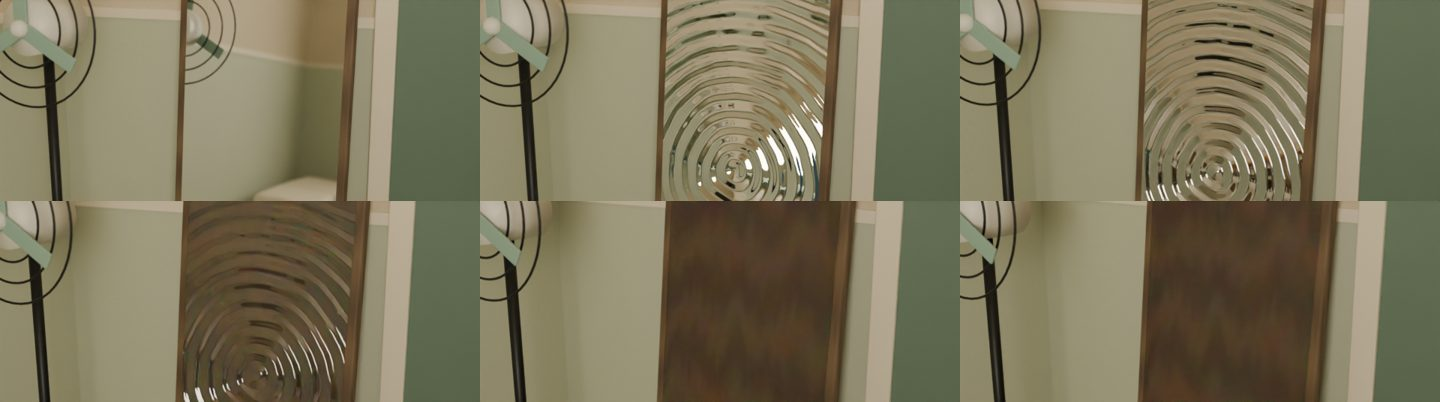
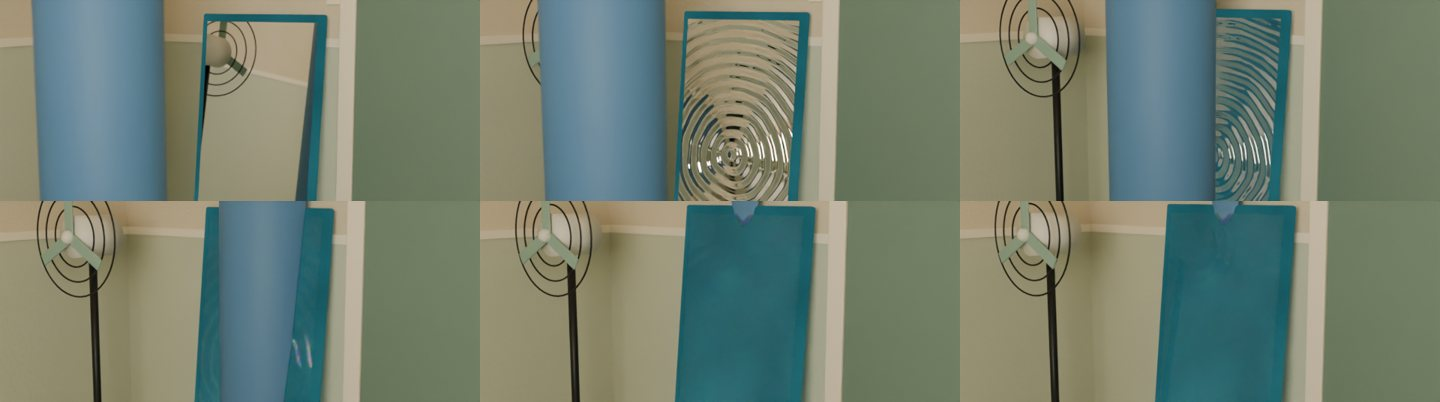
Ho so 02: tang toc dung canh 40x (bmesh), khe thong gio cua, kinh hoa nuoc + Nam chim xuyen kinh + Submersion POV, chay ra soat camera
Claude-Session: https://claude.ai/code/session_015xtvRhLRyfqVC2mbHabEYR

diff --git a/episodes/hem-co-chuyen/ho-so-02-nguoi-lam-thay/assets/boi-canh-3d/xay_phong_tro.py b/episodes/hem-co-chuyen/ho-so-02-nguoi-lam-thay/assets/boi-canh-3d/xay_phong_tro.py
@@ -60,32 +60,50 @@ def box(name, x0, x1, y0, y1, z0, z1, mat, bevel=0.0, coll=None, rot=None, pivot
     return ob
 
 
+def _mesh_obj(name, bm, loc, mat, smooth, coll, rot=None, scale=None, quat=None):
+    """Tạo đối tượng từ bmesh KHÔNG dùng bpy.ops (mỗi bpy.ops cập nhật depsgraph toàn cảnh → rất chậm khi có hàng nghìn vật)."""
+    me = bpy.data.meshes.new(name); bm.to_mesh(me); bm.free()
+    if smooth:
+        for p in me.polygons: p.use_smooth = True
+    ob = bpy.data.objects.new(name, me); ob.location = loc
+    if quat is not None: ob.rotation_mode = 'QUATERNION'; ob.rotation_quaternion = quat
+    elif rot is not None: ob.rotation_euler = rot
+    if scale is not None: ob.scale = scale
+    me.materials.append(mat)
+    (coll or bpy.context.scene.collection).objects.link(ob)
+    return ob
+
+
 def cyl(name, x, y, z, r, h, mat, axis='Z', verts=28, coll=None, rot=None, bevel=0.0, smooth=True):
-    bpy.ops.mesh.primitive_cylinder_add(vertices=verts, radius=r, depth=h, location=(mx(x), y, z))
-    ob = bpy.context.object; ob.name = name
-    if axis == 'X': ob.rotation_euler = (0, math.pi / 2, 0)
-    elif axis == 'Y': ob.rotation_euler = (math.pi / 2, 0, 0)
-    if rot: ob.rotation_euler = mrot(rot)
-    ob.data.materials.append(mat)
-    if smooth: bpy.ops.object.shade_smooth()
+    bm = bmesh.new(); bmesh.ops.create_cone(bm, cap_ends=True, cap_tris=False, segments=verts, radius1=r, radius2=r, depth=h)
+    e = None
+    if axis == 'X': e = (0, math.pi / 2, 0)
+    elif axis == 'Y': e = (math.pi / 2, 0, 0)
+    if rot: e = mrot(rot)
+    ob = _mesh_obj(name, bm, (mx(x), y, z), mat, smooth, coll, rot=e)
     if bevel > 0:
         md = ob.modifiers.new('bevel', 'BEVEL'); md.width = bevel; md.segments = 2
-    _link(ob, coll or bpy.context.scene.collection)
     return ob
 
 
 def sphere(name, x, y, z, r, mat, scale=(1, 1, 1), coll=None):
-    bpy.ops.mesh.primitive_uv_sphere_add(segments=32, ring_count=16, radius=r, location=(mx(x), y, z))
-    ob = bpy.context.object; ob.name = name; ob.scale = scale; ob.data.materials.append(mat); bpy.ops.object.shade_smooth()
-    _link(ob, coll or bpy.context.scene.collection)
-    return ob
+    bm = bmesh.new(); bmesh.ops.create_uvsphere(bm, u_segments=32, v_segments=16, radius=r)
+    return _mesh_obj(name, bm, (mx(x), y, z), mat, True, coll, scale=scale)
 
 
-def torus(name, x, y, z, R, r, mat, rot=(0, 0, 0), coll=None):
-    bpy.ops.mesh.primitive_torus_add(major_segments=48, minor_segments=10, major_radius=R, minor_radius=r, location=(mx(x), y, z), rotation=mrot(rot))
-    ob = bpy.context.object; ob.name = name; ob.data.materials.append(mat); bpy.ops.object.shade_smooth()
-    _link(ob, coll or bpy.context.scene.collection)
-    return ob
+def torus(name, x, y, z, R, r, mat, rot=(0, 0, 0), coll=None, major=48, minor=10):
+    bm = bmesh.new(); verts = []
+    for i in range(major):
+        a = 2 * math.pi * i / major; ca, sa = math.cos(a), math.sin(a); ring = []
+        for j in range(minor):
+            b = 2 * math.pi * j / minor; rr = R + r * math.cos(b)
+            ring.append(bm.verts.new((rr * ca, rr * sa, r * math.sin(b))))
+        verts.append(ring)
+    for i in range(major):
+        for j in range(minor):
+            bm.faces.new((verts[i][j], verts[(i + 1) % major][j], verts[(i + 1) % major][(j + 1) % minor], verts[i][(j + 1) % minor]))
+    bmesh.ops.recalc_face_normals(bm, faces=bm.faces)
+    return _mesh_obj(name, bm, (mx(x), y, z), mat, True, coll, rot=mrot(rot))
 
 
 def rounded(ob, level=2, width=0.03):
@@ -180,7 +198,16 @@ def shell(m, coll, door_open, cutaway=False, hide_front=False):
     for nm, a, b2, z0, z1 in [('khuon_a', DOOR['y0'] - 0.06, DOOR['y0'], 0, DOOR['top'] + 0.06), ('khuon_b', DOOR['y1'], DOOR['y1'] + 0.06, 0, DOOR['top'] + 0.06), ('khuon_tren', DOOR['y0'] - 0.06, DOOR['y1'] + 0.06, DOOR['top'], DOOR['top'] + 0.06)]:
         box(nm, -0.04, 0.03, a, b2, z0, z1, m['viền'], bevel=0.004, coll=coll)
     ang = math.radians(door_open)
-    leaf = box('canh_cua', -0.02, 0.02, DOOR['y0'], DOOR['y1'], 0.0, DOOR['top'], m['cua'], bevel=0.006, coll=coll, rot=(0, 0, ang), pivot=(0, DOOR['y1'], 0))
+    # cánh cửa chia 3 phần: thân dưới, KHE THÔNG GIÓ bằng nan ngang (z 1,66–1,96, có khe hở nhìn xuyên), thân trên
+    VZ0, VZ1 = 1.66, 1.96
+    pv = (0, DOOR['y1'], 0)
+    leaf = box('canh_cua', -0.02, 0.02, DOOR['y0'], DOOR['y1'], 0.0, VZ0, m['cua'], bevel=0.006, coll=coll, rot=(0, 0, ang), pivot=pv)
+    box('canh_cua_tren', -0.02, 0.02, DOOR['y0'], DOOR['y1'], VZ1, DOOR['top'], m['cua'], bevel=0.006, coll=coll, rot=(0, 0, ang), pivot=pv)
+    box('canh_cua_khung_trai', -0.02, 0.02, DOOR['y0'], DOOR['y0'] + 0.05, VZ0, VZ1, m['cua'], coll=coll, rot=(0, 0, ang), pivot=pv)
+    box('canh_cua_khung_phai', -0.02, 0.02, DOOR['y1'] - 0.05, DOOR['y1'], VZ0, VZ1, m['cua'], coll=coll, rot=(0, 0, ang), pivot=pv)
+    for k in range(8):  # nan: dày 1,6 cm, cách 3,75 cm → khe hở 2,1 cm
+        zz = VZ0 + 0.01 + k * 0.0375
+        box(f'nan_thong_gio{k}', -0.015, 0.015, DOOR['y0'] + 0.05, DOOR['y1'] - 0.05, zz, zz + 0.016, m['cua'], coll=coll, rot=(0, 0, ang), pivot=pv)
     # tay nắm, then sắt gỉ, mắt thần — gắn theo cánh (xoay cùng pivot)
     piv = (0, DOOR['y1'], 0)
     # Khóa cửa: thân khóa dán trên mặt trong cánh gần mép tự do, núm xoay, chốt đẩy vào ổ chốt trên khung.
@@ -339,11 +366,8 @@ def wire(name, p1, p2, r, mat, coll=None):
     """Dây điện mảnh giữa hai điểm (toạ độ thiết kế, hàm tự phản chiếu)."""
     a = Vector((mx(p1[0]), p1[1], p1[2])); b = Vector((mx(p2[0]), p2[1], p2[2]))
     d = b - a; ln = d.length
-    bpy.ops.mesh.primitive_cylinder_add(vertices=8, radius=r, depth=ln, location=(a + b) / 2)
-    ob = bpy.context.object; ob.name = name; ob.rotation_mode = 'QUATERNION'
-    ob.rotation_quaternion = Vector((0, 0, 1)).rotation_difference(d.normalized())
-    ob.data.materials.append(mat); _link(ob, coll or bpy.context.scene.collection)
-    return ob
+    bm = bmesh.new(); bmesh.ops.create_cone(bm, cap_ends=True, cap_tris=False, segments=8, radius1=r, radius2=r, depth=ln)
+    return _mesh_obj(name, bm, (a + b) / 2, mat, False, coll, quat=Vector((0, 0, 1)).rotation_difference(d.normalized()))
 
 
 def wall_details(m, coll):

diff --git a/episodes/hem-co-chuyen/ho-so-02-nguoi-lam-thay/assets/boi-canh-3d/kinh_nuoc.py b/episodes/hem-co-chuyen/ho-so-02-nguoi-lam-thay/assets/boi-canh-3d/kinh_nuoc.py
@@ -9,7 +9,7 @@ import bpy
 from mathutils import Vector
 
 
-def build_material(center_world, name='guong_nuoc', ior=(1.31, 1.33, 1.36), ring_scale=7.0):
+def build_material(center_world, name='guong_nuoc', ior=(1.31, 1.33, 1.36), ring_scale=7.0, pov=False):
     m = bpy.data.materials.new(name); m.use_nodes = True
     nt = m.node_tree; nt.nodes.clear(); N = nt.nodes; L = nt.links
     tc = N.new('ShaderNodeTexCoord')
@@ -38,7 +38,24 @@ def build_material(center_world, name='guong_nuoc', ior=(1.31, 1.33, 1.36), ring
     L.new(gl[0].outputs[0], a1.inputs[0]); L.new(gl[1].outputs[0], a1.inputs[1]); L.new(a1.outputs[0], a2.inputs[0]); L.new(gl[2].outputs[0], a2.inputs[1])
     mix = N.new('ShaderNodeMixShader'); mix.inputs[0].default_value = 0.0
     L.new(mirror.outputs[0], mix.inputs[1]); L.new(a2.outputs[0], mix.inputs[2])
-    out = N.new('ShaderNodeOutputMaterial'); L.new(mix.outputs[0], out.inputs['Surface'])
+    out = N.new('ShaderNodeOutputMaterial')
+    if pov:
+        # Nhìn từ phía sau kính (Submersion): khối kính mỏng gây phản xạ toàn phần ở mặt sau → đen. Thay bằng màng nước nửa trong:
+        # trong suốt + phản xạ glossy theo sóng + một chút khối xanh lục lam. `Backfacing` chọn đúng mặt.
+        geo2 = N.new('ShaderNodeNewGeometry')
+        tr = N.new('ShaderNodeBsdfTransparent'); gl2 = N.new('ShaderNodeBsdfGlossy'); gl2.inputs['Roughness'].default_value = 0.03; gl2.inputs['Color'].default_value = (0.7, 0.9, 0.95, 1)
+        L.new(bump.outputs['Normal'], gl2.inputs['Normal'])
+        tint = N.new('ShaderNodeBsdfTranslucent'); tint.inputs['Color'].default_value = (0.05, 0.35, 0.45, 1); L.new(bump.outputs['Normal'], tint.inputs['Normal'])
+        mb = N.new('ShaderNodeMixShader'); mb.inputs[0].default_value = 0.12; L.new(tr.outputs[0], mb.inputs[1]); L.new(gl2.outputs[0], mb.inputs[2])
+        mt = N.new('ShaderNodeMixShader'); L.new(mb.outputs[0], mt.inputs[1]); L.new(tint.outputs[0], mt.inputs[2])
+        mt.inputs[0].default_value = 0.0
+        bf = N.new('ShaderNodeMixShader'); L.new(geo2.outputs['Backfacing'], bf.inputs[0]); L.new(mt.outputs[0], bf.inputs[1]); L.new(mix.outputs[0], bf.inputs[2])
+        # độ trong theo `tran`: tran=0 → vẫn là gương; ở POV cho 'tran' điều khiển độ tint
+        ctl_tint = mt.inputs[0]
+        L.new(bf.outputs[0], out.inputs['Surface'])
+        m['ctl'] = 1
+        return m, dict(tran=mix.inputs[0], bien=bump.inputs['Strength'], pha=wave.inputs['Phase Offset'], tint=ctl_tint)
+    L.new(mix.outputs[0], out.inputs['Surface'])
     m['ctl'] = 1
     return m, dict(tran=mix.inputs[0], bien=bump.inputs['Strength'], pha=wave.inputs['Phase Offset'])
 
@@ -48,15 +65,49 @@ def key(sock, frame_vals):
         sock.default_value = v; sock.keyframe_insert('default_value', frame=f)
 
 
-def animate(ctl, N=72):
+def animate(ctl, N=72, tran0=0.0):
     """Mặc định: gương thường → gợn sóng từ tâm → hóa nước hoàn toàn → mặt nước phẳng lặng đóng băng."""
-    key(ctl['tran'], [(1, 0.0), (22, 0.0), (46, 1.0), (N, 1.0)])
+    key(ctl['tran'], [(1, tran0), (22, tran0), (46, 1.0), (N, 1.0)])
     key(ctl['bien'], [(1, 0.0), (14, 0.15), (30, 0.7), (56, 0.25), (N, 0.0)])
     key(ctl['pha'], [(1, 0.0), (N, 22.0)])
 
 
-def apply(glass_obj, center_world, N=72):
-    mat, ctl = build_material(center_world)
+def apply(glass_obj, center_world, N=72, pov=False, tran0=0.0):
+    mat, ctl = build_material(center_world, pov=pov)
     glass_obj.data.materials.clear(); glass_obj.data.materials.append(mat)
-    animate(ctl, N)
+    animate(ctl, N, tran0)
+    if 'tint' in ctl: key(ctl['tint'], [(1, 0.0), (22, 0.0), (46, 0.55), (N, 0.55)])
     return mat, ctl
+
+
+def plane_cut(mat, p0, n, keep_front=True):
+    """Bản sao vật liệu: phần nằm sau mặt phẳng (p0, n; n hướng vào phòng) trong suốt — Nam 'chìm' qua kính (keep_front=True: thấy phần trước
+    kính, ẩn phần đã qua); keep_front=False: ngược lại (camera trong gương thấy phần đã lọt qua)."""
+    mc = mat.copy(); mc.name = mat.name + ('__cat_t' if keep_front else '__cat_s'); nt = mc.node_tree
+    out = next(n_ for n_ in nt.nodes if n_.type == 'OUTPUT_MATERIAL')
+    if not out.inputs['Surface'].links: return mc
+    src = out.inputs['Surface'].links[0].from_socket
+    geo = nt.nodes.new('ShaderNodeNewGeometry')
+    sub = nt.nodes.new('ShaderNodeVectorMath'); sub.operation = 'SUBTRACT'; sub.inputs[1].default_value = tuple(p0)
+    nt.links.new(geo.outputs['Position'], sub.inputs[0])
+    dot = nt.nodes.new('ShaderNodeVectorMath'); dot.operation = 'DOT_PRODUCT'; dot.inputs[1].default_value = tuple(n)
+    nt.links.new(sub.outputs[0], dot.inputs[0])
+    cmp = nt.nodes.new('ShaderNodeMath'); cmp.operation = 'LESS_THAN' if keep_front else 'GREATER_THAN'; cmp.inputs[1].default_value = 0.0
+    nt.links.new(dot.outputs['Value'], cmp.inputs[0])
+    tr = nt.nodes.new('ShaderNodeBsdfTransparent'); mix = nt.nodes.new('ShaderNodeMixShader')
+    nt.links.new(cmp.outputs[0], mix.inputs[0]); nt.links.new(src, mix.inputs[1]); nt.links.new(tr.outputs[0], mix.inputs[2])
+    nt.links.new(mix.outputs[0], out.inputs['Surface'])
+    return mc
+
+
+def nen_nuoc_material():
+    """Nền sau mặt kính hóa nước: xanh lục lam tối có chiều sâu thay cho gỗ khung."""
+    m = bpy.data.materials.new('nen_nuoc'); m.use_nodes = True; nt = m.node_tree; N, L = nt.nodes, nt.links
+    for n_ in list(N): N.remove(n_)
+    tc = N.new('ShaderNodeTexCoord'); nz = N.new('ShaderNodeTexNoise'); nz.inputs['Scale'].default_value = 3.0; nz.inputs['Detail'].default_value = 6.0
+    L.new(tc.outputs['Object'], nz.inputs['Vector'])
+    ramp = N.new('ShaderNodeValToRGB'); ramp.color_ramp.elements[0].color = (0.01, 0.07, 0.09, 1); ramp.color_ramp.elements[1].color = (0.06, 0.34, 0.40, 1)
+    L.new(nz.outputs['Fac'], ramp.inputs['Fac'])
+    e = N.new('ShaderNodeEmission'); e.inputs['Strength'].default_value = 0.6; L.new(ramp.outputs['Color'], e.inputs['Color'])
+    out = N.new('ShaderNodeOutputMaterial'); L.new(e.outputs[0], out.inputs['Surface'])
+    return m

diff --git a/episodes/hem-co-chuyen/ho-so-02-nguoi-lam-thay/assets/boi-canh-3d/camera_dong.py b/episodes/hem-co-chuyen/ho-so-02-nguoi-lam-thay/assets/boi-canh-3d/camera_dong.py
@@ -171,24 +171,51 @@ def _nam_truoc_guong(sc, x=0.9, y=3.26):
     return X.figure_proxy('nam_proxy', x, y, nam, coll)
 
 
-def _liquid(sc, N=72):
-    import kinh_nuoc
+def _liquid(sc, N=72, pov=False, tran0=0.0):
+    import kinh_nuoc, cong_guong
     g = bpy.data.objects['mat_guong']
-    kinh_nuoc.apply(g, wp((0.14, 3.26, 0.7)), N)
+    kinh_nuoc.apply(g, wp((0.14, 3.26, 0.7)), N, pov=pov, tran0=tran0)
+    fr = bpy.data.objects.get('khung_guong')
+    if fr: fr.data.materials.clear(); fr.data.materials.append(kinh_nuoc.nen_nuoc_material())
+    return kinh_nuoc, cong_guong.mirror_plane(g)
+
+
+def _nam_chim(sc, objs, x0, x1, f0, f1, kn, plane, keep_front):
+    """Nam đi xuyên mặt kính: x thiết kế x0 → x1 trong khung f0..f1; phần qua mặt phẳng gương trong suốt (cắt bằng shader)."""
+    p0, n = plane
+    for o in objs:
+        for sl in o.material_slots:
+            base = sl.material; sl.link = 'OBJECT'; sl.material = kn.plane_cut(base, p0, n, keep_front)
+        o.location.x = X.mx(x0); o.keyframe_insert('location', frame=1); o.keyframe_insert('location', frame=f0)
+        o.location.x = X.mx(x1); o.keyframe_insert('location', frame=f1); o.keyframe_insert('location', frame=sc.frame_end if sc.frame_end > f1 else f1)
+        for fc in _fcurves(o):
+            for kp in fc.keyframe_points: kp.interpolation = 'BEZIER'
 
 
 def shot_kinh_nuoc(sc):
-    """P3.05 (bản camera phía phòng): Nam đứng trước gương, mặt kính hóa nước từ tâm; 50 mm f/2.0, đẩy vào chậm."""
+    """P3.05 (camera phía phòng): Nam bước vào mặt kính; kính hóa nước từ điểm chạm, phần thân đã qua kính biến mất; 50 mm f/2.0 đẩy chậm."""
     rig, cam = new_rig('KINH_NUOC', 50, 2.0); fo = focus_empty(cam); N = 72
-    _nam_truoc_guong(sc, 1.5, 2.2); _liquid(sc, N)
+    objs = _nam_truoc_guong(sc, 0.9, 3.26); kn, plane = _liquid(sc, N)
+    sc.frame_end = N; _nam_chim(sc, objs, 0.9, -0.1, 14, 58, kn, plane, True)
     for f in range(1, N + 1):
-        t = smooth((f - 1) / (N - 1)); key_pose(rig, f, (1.8 - 0.4 * t, 2.6 - 0.2 * t, 1.3), (0.14, 3.3, 0.9))
-        fo.location = wp((0.14, 3.26, 0.8)); fo.keyframe_insert('location', frame=f)
+        t = smooth((f - 1) / (N - 1)); key_pose(rig, f, (2.2 - 0.4 * t, 2.0 - 0.1 * t, 1.25), (0.14, 3.3, 0.9))
+        fo.location = wp((0.14, 3.3, 0.8)); fo.keyframe_insert('location', frame=f)
     handheld(cam, 0.05, 0.002, f1=N); set_range(sc, 1, N)
     return dict(build=dict(hide_front=False), proxy=False)
 
 
-SHOTS = {'KINH_NUOC': shot_kinh_nuoc, 'ORBIT_GUONG': shot_orbit, 'VERTIGO_GUONG': shot_vertigo, 'STEADI_RA_HL': shot_steadicam, 'RACK_FOCUS_BAN': shot_rack, 'HANDHELD_A04': shot_handheld}
+def shot_kinh_nuoc_pov(sc):
+    """P3.05 Submersion: camera BÊN TRONG thế giới gương nhìn ra qua mặt kính hóa nước; Nam lọt qua kính về phía camera (thấy phần đã qua)."""
+    rig, cam = new_rig('KINH_NUOC_POV', 35, 2.0); fo = focus_empty(cam); N = 72
+    objs = _nam_truoc_guong(sc, 0.9, 3.26); kn, plane = _liquid(sc, N, pov=True, tran0=0.9)
+    sc.frame_end = N; _nam_chim(sc, objs, 0.9, -0.25, 14, 58, kn, plane, False)
+    for f in range(1, N + 1):
+        key_pose(rig, f, (-0.9, 3.26, 1.2), (1.2, 3.26, 1.0)); fo.location = wp((0.0, 3.26, 1.0)); fo.keyframe_insert('location', frame=f)
+    handheld(cam, 0.05, 0.002, f1=N); set_range(sc, 1, N)
+    return dict(build=dict(hide_front=False, guong='pov'), proxy=False, hide_prefix=('khung_guong',))
+
+
+SHOTS = {'KINH_NUOC': shot_kinh_nuoc, 'KINH_NUOC_POV': shot_kinh_nuoc_pov, 'ORBIT_GUONG': shot_orbit, 'VERTIGO_GUONG': shot_vertigo, 'STEADI_RA_HL': shot_steadicam, 'RACK_FOCUS_BAN': shot_rack, 'HANDHELD_A04': shot_handheld}
 
 
 if __name__ == '__main__':

diff --git a/episodes/hem-co-chuyen/ho-so-02-nguoi-lam-thay/assets/boi-canh-3d/moi_truong.py b/episodes/hem-co-chuyen/ho-so-02-nguoi-lam-thay/assets/boi-canh-3d/moi_truong.py
@@ -15,6 +15,7 @@ _cache = {}
 
 
 def build(X, m, coll, night, hl_y1):
+    _cache.clear()  # vật liệu cũ có thể đã bị xoá khi dựng lại cảnh
     box, cyl, sphere, torus, M = X.box, X.cyl, X.sphere, X.torus, X.M
     W, D, H, T = X.W, X.D, X.H, X.T
     GZ = -2.92            # mặt sân (tầng 1)
@@ -225,7 +226,7 @@ def build(X, m, coll, night, hl_y1):
 
     # ------------------------------------------------------------ hẻm bên cửa sổ phòng Nam (x > W): nhà hàng xóm cách 2,2 m
     AX = W + T + 2.2
-    B('hem_san', W + T, AX + 0.4, -12, 16, GZ - 0.2, GZ, M.tiles('env_hem', '#8f8c82', '#6e6b62', 0.8), coll=coll)
+    B('hem_san', W + T, AX + 0.4, -12, 16, GZ - 0.2, GZ, M.tiles('env_hem', '#6c6a61', '#4a4841', 0.8), coll=coll)
     B('hem_tuong_nha_ben', AX, AX + 0.4, -12, 16, GZ, GZ + FL * 4 + 1.5, plaster('#c7b997'), coll=coll)
     B('hem_tuong_nha_ben_chan', AX - 0.03, AX, -12, 16, GZ, GZ + 1.1, plaster('#8c8a7a'), coll=coll)
     for fl in range(4):

diff --git a/episodes/hem-co-chuyen/ho-so-02-nguoi-lam-thay/assets/boi-canh-3d/cong_guong.py b/episodes/hem-co-chuyen/ho-so-02-nguoi-lam-thay/assets/boi-canh-3d/cong_guong.py
@@ -46,3 +46,12 @@ def pov_trong_guong(coll, world_x_min=2.7):
         if min((o.matrix_world @ v.co).x for v in o.data.vertices) > world_x_min:
             o.visible_camera = False; n += 1
     return n
+
+
+def mirror_plane(glass):
+    """(điểm, pháp tuyến hướng vào phòng) của mặt kính `mat_guong` (đỉnh đã ở toạ độ thế giới). Dùng cho cắt Nam xuyên kính, đặt Người Kia."""
+    best = max(glass.data.polygons, key=lambda p: p.area)
+    n = (glass.matrix_world.to_3x3() @ best.normal).normalized()
+    c = glass.matrix_world @ best.center
+    if n.x > 0: n = -n  # phòng nằm về −x thế giới
+    return c, n

diff --git a/episodes/hem-co-chuyen/ho-so-02-nguoi-lam-thay/assets/boi-canh-3d/KE-HOACH-CONG-GUONG.md b/episodes/hem-co-chuyen/ho-so-02-nguoi-lam-thay/assets/boi-canh-3d/KE-HOACH-CONG-GUONG.md
@@ -31,7 +31,7 @@ Bằng chứng: `xem-thu/GUONG_XIEN_day.png` — gương dựng lại phòng (qu
 | `pov` | **Inside-Mirror POV** (camera sau kính nhìn ra: P2.04, P3.05) | `pov_trong_guong` ẩn khỏi camera mọi vật nằm hoàn toàn sau mặt gương (tường cửa, hành lang); sàn, trần, tường đối diện giữ nguyên nên vẫn thấy cả phòng thật. Ảnh: `GUONG_POV_day.png`. |
 
 ## 4. Việc còn lại cho gương
-1. **Liquid Glass (P3.05):** đã có `kinh_nuoc.py` (Bump từ Wave Texture vòng đồng tâm + 3 Glass BSDF IOR lệch cho sắc sai; keyframe `tran`, `bien`, `pha`) và shot `KINH_NUOC` (ảnh `xem-thu/chuyen-dong/KINH_NUOC.jpg`). Còn lại: (a) cảnh Nam chìm xuyên kính cần nhân vật + cắt lát theo mặt kính; (b) camera BÊN TRONG nhìn ra qua kính nước chưa chạy (lưng kính còn đen: cần xử lý mặt sau của khối kính); (c) màu nền sau kính: hiện là gỗ khung nâu đục, nên thay bằng lớp tối lạnh có chiều sâu; (d) vòng sóng hơi cứng, cần làm mềm khi có đồ họa thật.
+1. **Liquid Glass / Submersion (P3.05) — đã xong bản đầu (13/11):** `kinh_nuoc.py` + shot `KINH_NUOC` (camera phía phòng: Nam đi xuyên mặt kính, phần đã qua kính biến mất nhờ cắt theo mặt phẳng gương bằng shader `plane_cut`, kính hóa nước từ điểm chạm, nền sau kính xanh lục lam có chiều sâu `nen_nuoc_material`) và `KINH_NUOC_POV` (camera BÊN TRONG nhìn ra qua màng nước: phòng thật thấy qua sóng, sắc sai, Nam lọt qua kính về phía camera). Ảnh: `xem-thu/chuyen-dong/KINH_NUOC*.jpg`. Còn lại: thay hình nhân bằng Nam Modular + tương tác chạm nước (vòng sóng bám điểm chạm thật), làm mềm vòng sóng, âm thanh.
 2. **Gương nứt/mờ sương (P2.04):** texture mask nứt góc phải + roughness cục bộ.
 3. **Vertigo (P3.03_03):** camera lùi trục Z đồng thời tăng tiêu cự 35→85 mm hướng vào gương; kiểm tra phản xạ ổn định không nhấp nháy ở 85 mm.
 4. **Thay hình nhân bằng nhân vật Modular:** Nam (ẩn trong glossy khi cần) và Người Kia (chỉ glossy). Chốt vị trí đặt `Armature` và quy ước đặt tên để keyframe cờ hiển thị.
